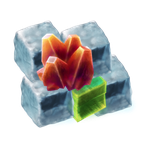
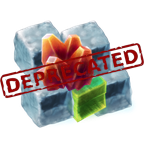
refactor: migrate to frozen goodies and more

Changed region(s): [[0.0, 0.2778, 1.0, 0.6944]]

diff --git a/README.md b/README.md
@@ -1,26 +1,6 @@
 [![The Foundry](https://img.shields.io/badge/foundrygg-4a1402?style=for-the-badge&logo=vercel&logoColor=white)](https://foundrygg.com/)
 [![Discord community](https://img.shields.io/badge/Discord-%235865F2.svg?style=for-the-badge&logo=discord&logoColor=white)](https://discord.gg/SYmkaDjFCt)
-[![Factorio mod portal](https://img.shields.io/factorio-mod-portal/dt/frozen-goodies-fulgora-coralmium-agriculture?style=for-the-badge&logo=data%3Aimage%2Fx-icon%3Bbase64%2CAAABAAEAEBAAAAEACABoBQAAFgAAACgAAAAQAAAAIAAAAAEACAAAAAAAAAEAAAAAAAAAAAAAAAEAAAAAAAAAAAAALzAtABIVFwBBOSwAISYpAB0iJACTfFQAICQnAEk%2FLAAcICIAsZZlADs4MABsXUIAd2hMAINzVgChi2QAPTozAIt6WwAWGhsAs5prABwgIwC1nG4AKSglAEpGOwBhVDwAGx4hAGJUPABoXkkAMiwiAGleSQCwmW8AtJpsALigdABnXEcAi3ZPAFhNOACDb0sAIicqAEtCLwAxMzEAEhQWAE1EMgAgJSgAISUoAJV%2FWACrkmQAHyMmAIFwUgAbHyEAsJVkAG5gRgAXGxwAHSEkAKCKYwCzmWoAsJhtACIhHAAbHyIAeWtRADo3MACxmnAAtZttACMoKgAaHSAAPzcoABYZGwASFRYAX1ZEAINwTABKRTsAIygrAJqDWABoXUkAHyQmAAAAAAAAAAAAAAAAAAAAAAAAAAAAAAAAAAAAAAAAAAAAAAAAAAAAAAAAAAAAAAAAAAAAAAAAAAAAAAAAAAAAAAAAAAAAAAAAAAAAAAAAAAAAAAAAAAAAAAAAAAAAAAAAAAAAAAAAAAAAAAAAAAAAAAAAAAAAAAAAAAAAAAAAAAAAAAAAAAAAAAAAAAAAAAAAAAAAAAAAAAAAAAAAAAAAAAAAAAAAAAAAAAAAAAAAAAAAAAAAAAAAAAAAAAAAAAAAAAAAAAAAAAAAAAAAAAAAAAAAAAAAAAAAAAAAAAAAAAAAAAAAAAAAAAAAAAAAAAAAAAAAAAAAAAAAAAAAAAAAAAAAAAAAAAAAAAAAAAAAAAAAAAAAAAAAAAAAAAAAAAAAAAAAAAAAAAAAAAAAAAAAAAAAAAAAAAAAAAAAAAAAAAAAAAAAAAAAAAAAAAAAAAAAAAAAAAAAAAAAAAAAAAAAAAAAAAAAAAAAAAAAAAAAAAAAAAAAAAAAAAAAAAAAAAAAAAAAAAAAAAAAAAAAAAAAAAAAAAAAAAAAAAAAAAAAAAAAAAAAAAAAAAAAAAAAAAAAAAAAAAAAAAAAAAAAAAAAAAAAAAAAAAAAAAAAAAAAAAAAAAAAAAAAAAAAAAAAAAAAAAAAAAAAAAAAAAAAAAAAAAAAAAAAAAAAAAAAAAAAAAAAAAAAAAAAAAAAAAAAAAAAAAAAAAAAAAAAAAAAAAAAAAAAAAAAAAAAAAAAAAAAAAAAAAAAAAAAAAAAAAAAAAAAAAAAAAAAAAAAAAAAAAAAAAAAAAAAAAAAAAAAAAAAAAAAAAAAAAAAAAAAAAAAAAAAAAAAAAAAAAAAAAAAAAAAAAAAAAAAAAAAAAAAAAAAAAAAAAAAAAAAAAAAAAAAAAAAAAAAAAAAAAAAAAAAAAAAAAAAAAAAAAAAAAAAAAAAAAAAAAAAAAAAAAAAAAAAAAAAAAAAAAAAAAAAADExMTExEyAgEzExMTExADExMRMVCi8EBC8KFTYxMTExMT0OGx5DJSVDHkgRHzExMTEyB0YnRiUlPidGBw0xMTExGi5GJS4JOS4lRkkpMTExHzcrRi4SHEBBLkYrNxUKMTpFRiUURDExRAklRhchLTE%2FKyU%2BCzExMTE7JSUqGSwxAj8qRgEVCgoVEEYqPwIGMSQMSUYlHTw8HSVGSQwiMTExDwclJSVGRiUlPgc1MTExMQMwNBQuJSUuFAU5IzExMTEiOEImFklJFiYCKCQxMTExMUckMRgzMxgxJCIxMTExMTExMTEiCAgiMTExMTExADExMTExMTExMTExMTExAIABAAAAAAAAAAAAAAAAAAAAAAAAAAAAAAAAAAAAAAAAAAAAAAAAAAAAAAAAAAAAAAAAAAAAAAAAAAAAAIABAAA%3D&color=orange&labelColor=rgb(111,148,173))](https://mods.factorio.com/mod/frozen-goodies-fulgora-coralmium-agriculture)
-[![Crowdin translate](https://img.shields.io/badge/Crowdin-Translate-cornflowerblue?style=for-the-badge)](https://crowdin.com/project/factorio-mods-localization)
-[![GitHub issues: bugs](https://img.shields.io/github/issues/QuingKhaos/frozen-goodies-fulgora-coralmium-agriculture/bug?label=Bug%20Reports&style=for-the-badge&logo=github)](https://github.com/QuingKhaos/frozen-goodies-fulgora-coralmium-agriculture/issues?q=is%3Aissue%20state%3Aopen%20label%3Abug)
-[![GitHub pull requests](https://img.shields.io/github/issues-pr/QuingKhaos/frozen-goodies-fulgora-coralmium-agriculture?label=Pull%20Requests&style=for-the-badge&logo=github)](https://github.com/QuingKhaos/frozen-goodies-fulgora-coralmium-agriculture/pulls)
 
-# Frozen Goodies for Wooden Fulgora: Coralmium Agriculture
+# [DEPRECATED] Frozen Goodies for Wooden Fulgora: Coralmium Agriculture
 
-Adds [frozen goodies](https://mods.factorio.com/mod/frozen-goodies) support to [Coralmium Agriculture](https://mods.factorio.com/mod/fulgora-coralmium-agriculture).
-
-## All my frozen goodies mods
-
-- [Frozen Goodies for Wooden Aquilo: Seabloom Algaculture][aquilo-seabloom-algaculture] - Adds frozen goodies support to
-  Seabloom Algaculture.
-- [Frozen Goodies Base Assets][base-assets] - Base assets to dynamically create frozen goodies with layers.
-- [Frozen Goodies for Wooden Fulgora: Coralmium Agriculture][fulgora-coralmium-agriculture] - Adds frozen goodies support
-  to Coralmium Agriculture.
-- [Frozen Goodies for Lignumis][lignumis] - Adds frozen goodies support to Lignumis.
-- [Frozen Goodies Tweaks][tweaks] - Opinionated tweaks to Frozen Goodies.
-
-[aquilo-seabloom-algaculture]: https://mods.factorio.com/mod/frozen-goodies-aquilo-seabloom-algaculture
-[base-assets]: https://mods.factorio.com/mod/frozen-goodies-base-assets
-[fulgora-coralmium-agriculture]: https://mods.factorio.com/mod/frozen-goodies-fulgora-coralmium-agriculture
-[lignumis]: https://mods.factorio.com/mod/frozen-goodies-lignumis
-[tweaks]: https://mods.factorio.com/mod/frozen-goodies-tweaks
+Functionality migrated to [Frozen Goodies and More](https://mods.factorio.com/mod/frozen-goodies-and-more).